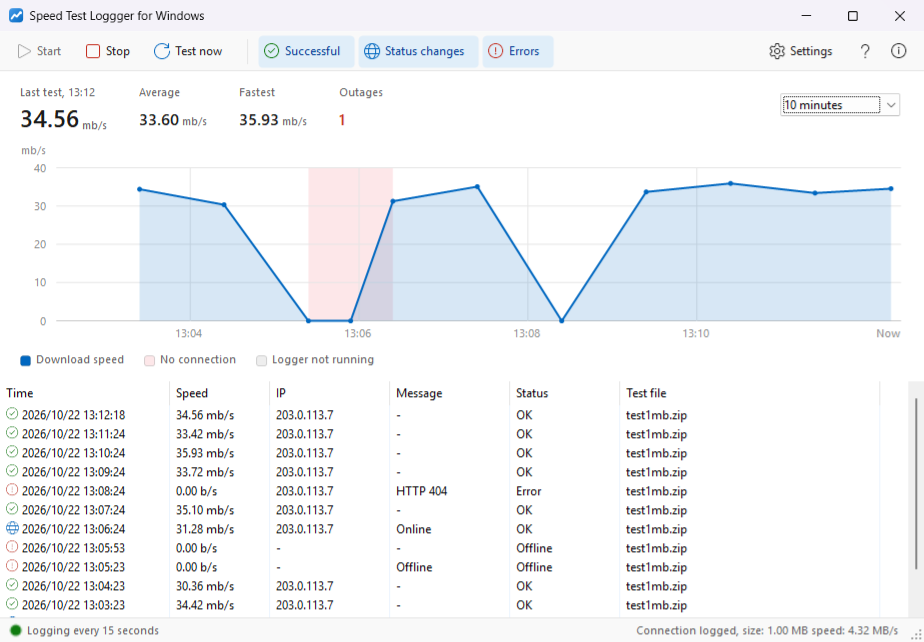
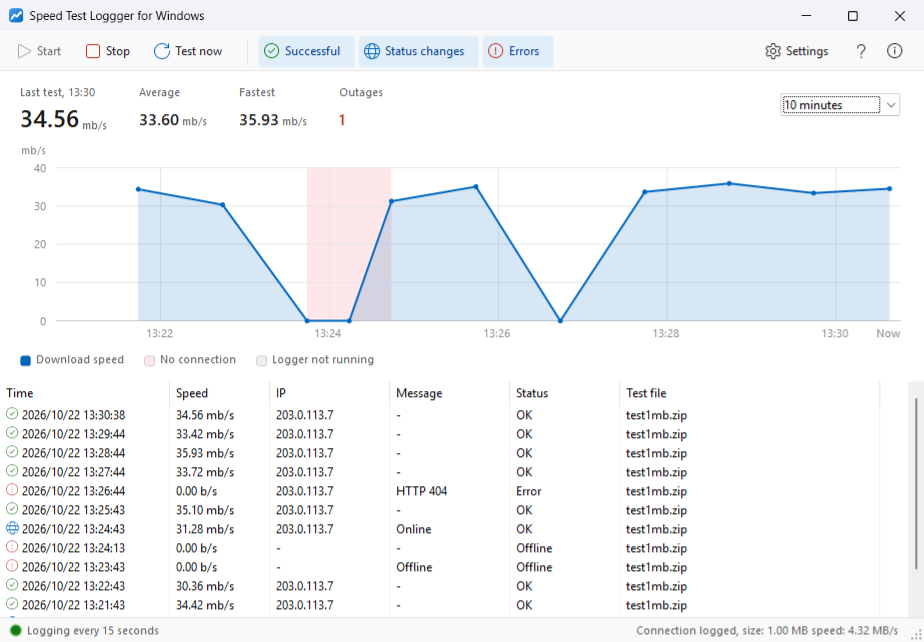
Make every toolbar button reachable by screen readers
Settings and Help were right-aligned in the toolbar, and .NET
Framework's ToolStrip doesn't expose right-aligned items to UI
Automation correctly: Settings and Help were missing from the
accessibility tree, so screen readers and automation tools couldn't
reach them. Left-align every button and push Settings, Help and About
to the right with an invisible spacer (ToolBarSpacer) sized in the
toolbar's Layout event, leaving a little slack so the last button
isn't pushed into the overflow menu. Turn overflow off.

diff --git a/SpeedTest/FormMain.Designer.cs b/SpeedTest/FormMain.Designer.cs
@@ -66,6 +66,7 @@
             this.ToolBarShowSuccessful = new System.Windows.Forms.ToolStripButton();
             this.ToolBarShowStatusChanges = new System.Windows.Forms.ToolStripButton();
             this.ToolBarShowErrors = new System.Windows.Forms.ToolStripButton();
+            this.ToolBarSpacer = new System.Windows.Forms.ToolStripLabel();
             this.ToolBarAbout = new System.Windows.Forms.ToolStripButton();
             this.ToolBarHelp = new System.Windows.Forms.ToolStripButton();
             this.ToolBarSettings = new System.Windows.Forms.ToolStripButton();
@@ -303,6 +304,7 @@
             // ToolStripMain
             //
             this.ToolStripMain.AutoSize = false;
+            this.ToolStripMain.CanOverflow = false;
             this.ToolStripMain.Font = new System.Drawing.Font("Segoe UI", 9F);
             this.ToolStripMain.GripStyle = System.Windows.Forms.ToolStripGripStyle.Hidden;
             this.ToolStripMain.ImageScalingSize = new System.Drawing.Size(20, 20);
@@ -314,14 +316,16 @@
             this.ToolBarShowSuccessful,
             this.ToolBarShowStatusChanges,
             this.ToolBarShowErrors,
-            this.ToolBarAbout,
+            this.ToolBarSpacer,
+            this.ToolBarSettings,
             this.ToolBarHelp,
-            this.ToolBarSettings});
+            this.ToolBarAbout});
             this.ToolStripMain.Location = new System.Drawing.Point(0, 0);
             this.ToolStripMain.Name = "ToolStripMain";
             this.ToolStripMain.Padding = new System.Windows.Forms.Padding(8, 2, 8, 2);
             this.ToolStripMain.Size = new System.Drawing.Size(922, 40);
             this.ToolStripMain.TabIndex = 2;
+            this.ToolStripMain.Layout += new System.Windows.Forms.LayoutEventHandler(this.ToolStripMain_Layout);
             //
             // ToolBarStartLogging
             //
@@ -387,9 +391,15 @@
             this.ToolBarShowErrors.ToolTipText = "Show errors in the list";
             this.ToolBarShowErrors.Click += new System.EventHandler(this.MenuShowErrors_Click);
             //
+            // ToolBarSpacer
+            //
+            this.ToolBarSpacer.AccessibleRole = System.Windows.Forms.AccessibleRole.WhiteSpace;
+            this.ToolBarSpacer.AutoSize = false;
+            this.ToolBarSpacer.Name = "ToolBarSpacer";
+            this.ToolBarSpacer.Size = new System.Drawing.Size(100, 36);
+            //
             // ToolBarAbout
             //
-            this.ToolBarAbout.Alignment = System.Windows.Forms.ToolStripItemAlignment.Right;
             this.ToolBarAbout.DisplayStyle = System.Windows.Forms.ToolStripItemDisplayStyle.Image;
             this.ToolBarAbout.Margin = new System.Windows.Forms.Padding(1, 0, 1, 0);
             this.ToolBarAbout.Name = "ToolBarAbout";
@@ -400,7 +410,6 @@
             //
             // ToolBarHelp
             //
-            this.ToolBarHelp.Alignment = System.Windows.Forms.ToolStripItemAlignment.Right;
             this.ToolBarHelp.DisplayStyle = System.Windows.Forms.ToolStripItemDisplayStyle.Image;
             this.ToolBarHelp.Margin = new System.Windows.Forms.Padding(1, 0, 1, 0);
             this.ToolBarHelp.Name = "ToolBarHelp";
@@ -411,7 +420,6 @@
             //
             // ToolBarSettings
             //
-            this.ToolBarSettings.Alignment = System.Windows.Forms.ToolStripItemAlignment.Right;
             this.ToolBarSettings.Margin = new System.Windows.Forms.Padding(1, 0, 1, 0);
             this.ToolBarSettings.Name = "ToolBarSettings";
             this.ToolBarSettings.Padding = new System.Windows.Forms.Padding(6, 0, 6, 0);
@@ -499,6 +507,7 @@
         private System.Windows.Forms.ToolStripButton ToolBarShowSuccessful;
         private System.Windows.Forms.ToolStripButton ToolBarShowStatusChanges;
         private System.Windows.Forms.ToolStripButton ToolBarShowErrors;
+        private System.Windows.Forms.ToolStripLabel ToolBarSpacer;
         private System.Windows.Forms.ToolStripButton ToolBarSettings;
         private System.Windows.Forms.ToolStripButton ToolBarHelp;
         private System.Windows.Forms.ToolStripButton ToolBarAbout;

diff --git a/SpeedTest/FormMain.cs b/SpeedTest/FormMain.cs
@@ -320,6 +320,25 @@ namespace SpeedTest
             Application.Exit();
         }
 
+        /// <summary>Occurs when the toolbar lays out its buttons: widens the spacer so Settings, Help and About sit at the right.</summary>
+        private void ToolStripMain_Layout(object sender, LayoutEventArgs e)
+        {
+            // Right-aligned toolbar items aren't exposed to screen readers or UI Automation in .NET Framework,
+            // so every button is left-aligned and this invisible spacer fills the gap instead
+            int used = 0;
+
+            foreach (ToolStripItem item in ToolStripMain.Items)
+            {
+                if (item != ToolBarSpacer && item.Available) used += item.Width + item.Margin.Horizontal;
+            }
+
+            // A few pixels of slack: if the spacer takes every last pixel, the toolbar moves the last button out of view
+            int width = Math.Max(0, ToolStripMain.DisplayRectangle.Width - used - ToolBarSpacer.Margin.Horizontal - 4);
+
+            // Changing the width lays the toolbar out again, so only change it when it differs
+            if (ToolBarSpacer.Width != width) ToolBarSpacer.Width = width;
+        }
+
         /// <summary>Occurs when the NotifyIcon is double-clicked.</summary>
         private void IconMain_MouseDoubleClick(object sender, MouseEventArgs e)
         {

diff --git a/CLAUDE.md b/CLAUDE.md
@@ -76,6 +76,9 @@ WinForms app on .NET Framework 4.8 (C#) that runs download speed tests on a sche
   - When neither font exists, `Theme.Icon` returns null. Callers fall back to the original bitmaps in `ImageListMain` and `ImageListLog`, so keep those.
 - **Toolbar, status bar and tray menu:** these are `ToolStrip`, `StatusStrip` and `ContextMenuStrip` with `FlatRenderer`, not the old `ToolBar`, `StatusBar` and `ContextMenu`.
   - The toolbar toggles use `.Checked`.
+  - Don't right-align toolbar items. In .NET Framework that hides them from UI Automation and screen readers. Settings, Help and About are left-aligned after `ToolBarSpacer`, a label that `ToolStripMain_Layout` widens to fill the gap.
+  - Overflow is off (`CanOverflow = false`), so a button can never move into a hidden menu.
+  - To check accessibility, list the toolbar's UI Automation children: every button should appear, and there should be no "ToolBar Options" item.
   - The status bar uses `HorizontalStackWithOverflow`, with `StatusMain` aligned right. `Spring` with the default Table layout pushed the label onto a hidden second row.
 - **Graph (`SpeedGraph.OnPaint`):**
   - **Layout:** a summary row (last, average and fastest speeds, and outages), a plot with round axis steps (`NiceStep`), and a key.
